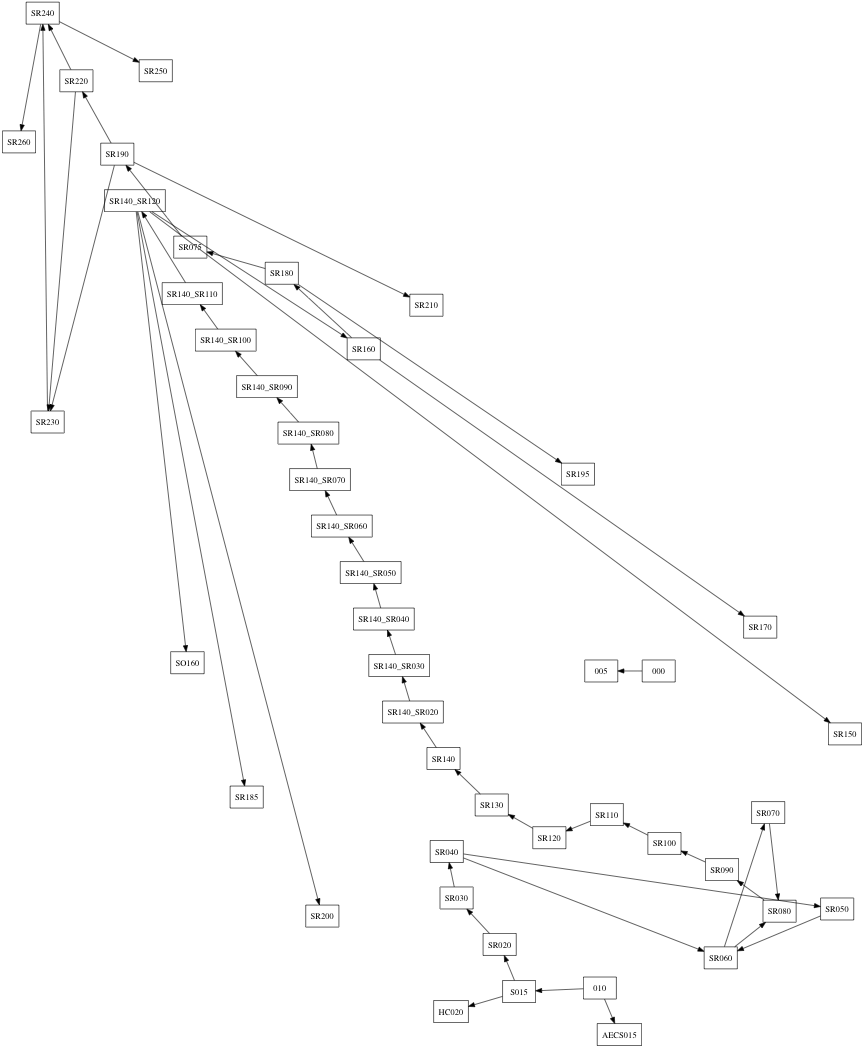
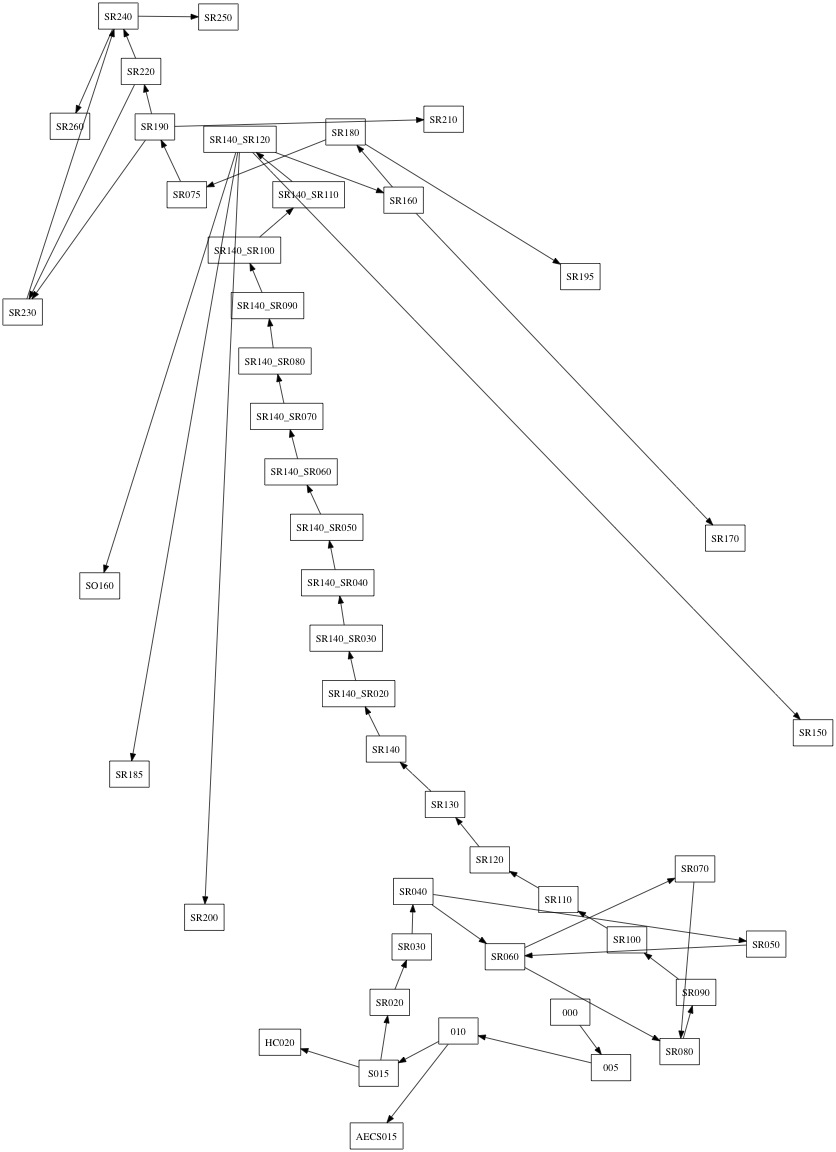
fix: Create simple dot files on Mac

diff --git a/src/main/java/utils/GenDoc_Dot.java b/src/main/java/utils/GenDoc_Dot.java
@@ -28,13 +28,13 @@ public class GenDoc_Dot { // extends PF_V5_Utils {
     // DOT specific parameters.
     // -------------------------------------------------------------
 
-    final int COMM_LEN = 80;
+    private final int COMM_LEN = 80;
 
-    final float GREY0 = 1.f;
+    private final float GREY0 = 1.f;
 
-    final float GREY1 = 0.92f;
+    private final float GREY1 = 0.92f;
 
-    final float GREY3 = 0.8f;
+    private final float GREY3 = 0.8f;
     // -------------------------------------------------------------
     // DOT specific parameters.
     // -------------------------------------------------------------
@@ -172,7 +172,7 @@ public class GenDoc_Dot { // extends PF_V5_Utils {
         String result = "";
         result += "digraph " + proc + " " + newline;
         result += "{" + newline;
-        result += T0 + "size = \"9,12\";" + newline;
+        result += T0 + "size = \"30,40\";" + newline;
         result += T0 + "overlap = false;" + newline; // MK 2019 no overlap
         result += T0 + "sep = \"+20.0\";" + newline; // MK 2019 no overlap
         result += T0 + "node [shape = box];" + newline;
@@ -269,10 +269,10 @@ public class GenDoc_Dot { // extends PF_V5_Utils {
 
     private String neato(String proc) {
         File file = new File(GEN_DIR, getFileStem(proc, ".dot"));
-        File out = new File(GEN_DIR, getFileStem(proc, "-tw.png"));
+        File out = new File(GEN_DIR, getFileStem(proc, ".png"));
         System.out.println(file.getAbsolutePath());
         System.out.println(out.getAbsolutePath());
-        return "/usr/local/bin/twopi -Tpng " + file.getAbsolutePath() + " -o " + out.getAbsolutePath();
+        return "/usr/local/bin/dot -Tpng " + file.getAbsolutePath() + " -o " + out.getAbsolutePath();
         // return "/usr/local/bin/neato -Tpng " + file.getAbsolutePath() + " -o " +
         // out.getAbsolutePath();
 
@@ -285,9 +285,9 @@ public class GenDoc_Dot { // extends PF_V5_Utils {
         File out = new File(GEN_DIR, getFileStem(proc, ".png"));
         System.out.println(file.getAbsolutePath());
         System.out.println(out.getAbsolutePath());
-        return "\"c:\\Program Files (x86)\\Graphviz2.38\\bin\\sfdp.exe\" -Tpng " + file.getAbsolutePath() + " -o "
-                + out.getAbsolutePath();
-//        return "\"c:\\Program Files (x86)\\Graphviz2.38\\bin\\neato.exe\" -Tpng " + file.getAbsolutePath() + " -o " + out.getAbsolutePath();
+//        return "\"c:\\Program Files (x86)\\Graphviz2.38\\bin\\sfdp.exe\" -Tpng " + file.getAbsolutePath() + " -o "
+//                + out.getAbsolutePath();
+        return "\"c:\\Program Files (x86)\\Graphviz2.38\\bin\\neato.exe\" -Tpng " + file.getAbsolutePath() + " -o " + out.getAbsolutePath();
         // return "neato -Tpng " + gen_DIR+"/"+getFileStem(".dot") + "-o " +
         // gen_DIR+"/"+getFileStem(".png");
     }
